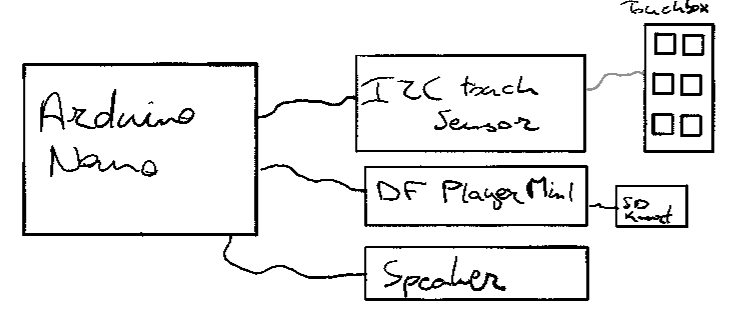
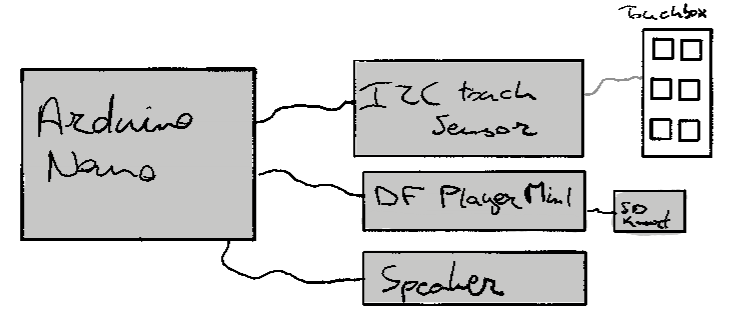
update

diff --git a/Emerging_Tech.md b/Emerging_Tech.md
@@ -3,9 +3,11 @@
 - Arduino scripts kan je vinden in [Code/Arduino](./Code/Arduino/)
 - Python scripts kan je vinden in [Code/Python](./Code/Python/)
 
-Ons project bestaat uit 2 onderdelen met aparte elektronica. Het onderdeel 'boombox' bestaat uit een scherm, een raspberry pi 4 en een Rotary encoder, verbonden aan een Arduino Nano. 
-Het doel van dit onderdeel is het laten afspelen van een spel op het scherm, aan de hand van de input gegeven door de rotary encoder. Het script voor dit scherm is geschreven in python, met gebruik van pygame. 
-Connectieschema Momenteel:
+Het project bestaat uit twee onderdelen met afzonderlijke elektronische componenten. Het eerste onderdeel, de boombox, bevat een scherm, een Raspberry Pi 4 en een rotary encoder, gekoppeld aan een Arduino Nano. Doel van dit onderdeel is het weergeven van een spel op het scherm, bestuurd via de input van de rotary encoder. Het script voor deze toepassing is geschreven in Python, met gebruik van de Pygame-bibliotheek.
+
+Het tweede onderdeel, de touchbox, omvat een Arduino Nano, een I2C capacitieve touchsensor, een DF Player en een speaker met versterker. Dit systeem speelt een specifiek geluid af bij aanraking. Deze geluiden worden dienen afgespeeld te worden wanneer het bijbehorende icoon verschijnt op het scherm van de boombox.
+
+Algemeene connectieschemas Momenteel:
 <p align="left">
   <img src="CYR PICS/Schema Boombox 1.png" width="33%">
   <img src="CYR PICS/Schema Touchbox 1.png" width="33%">
